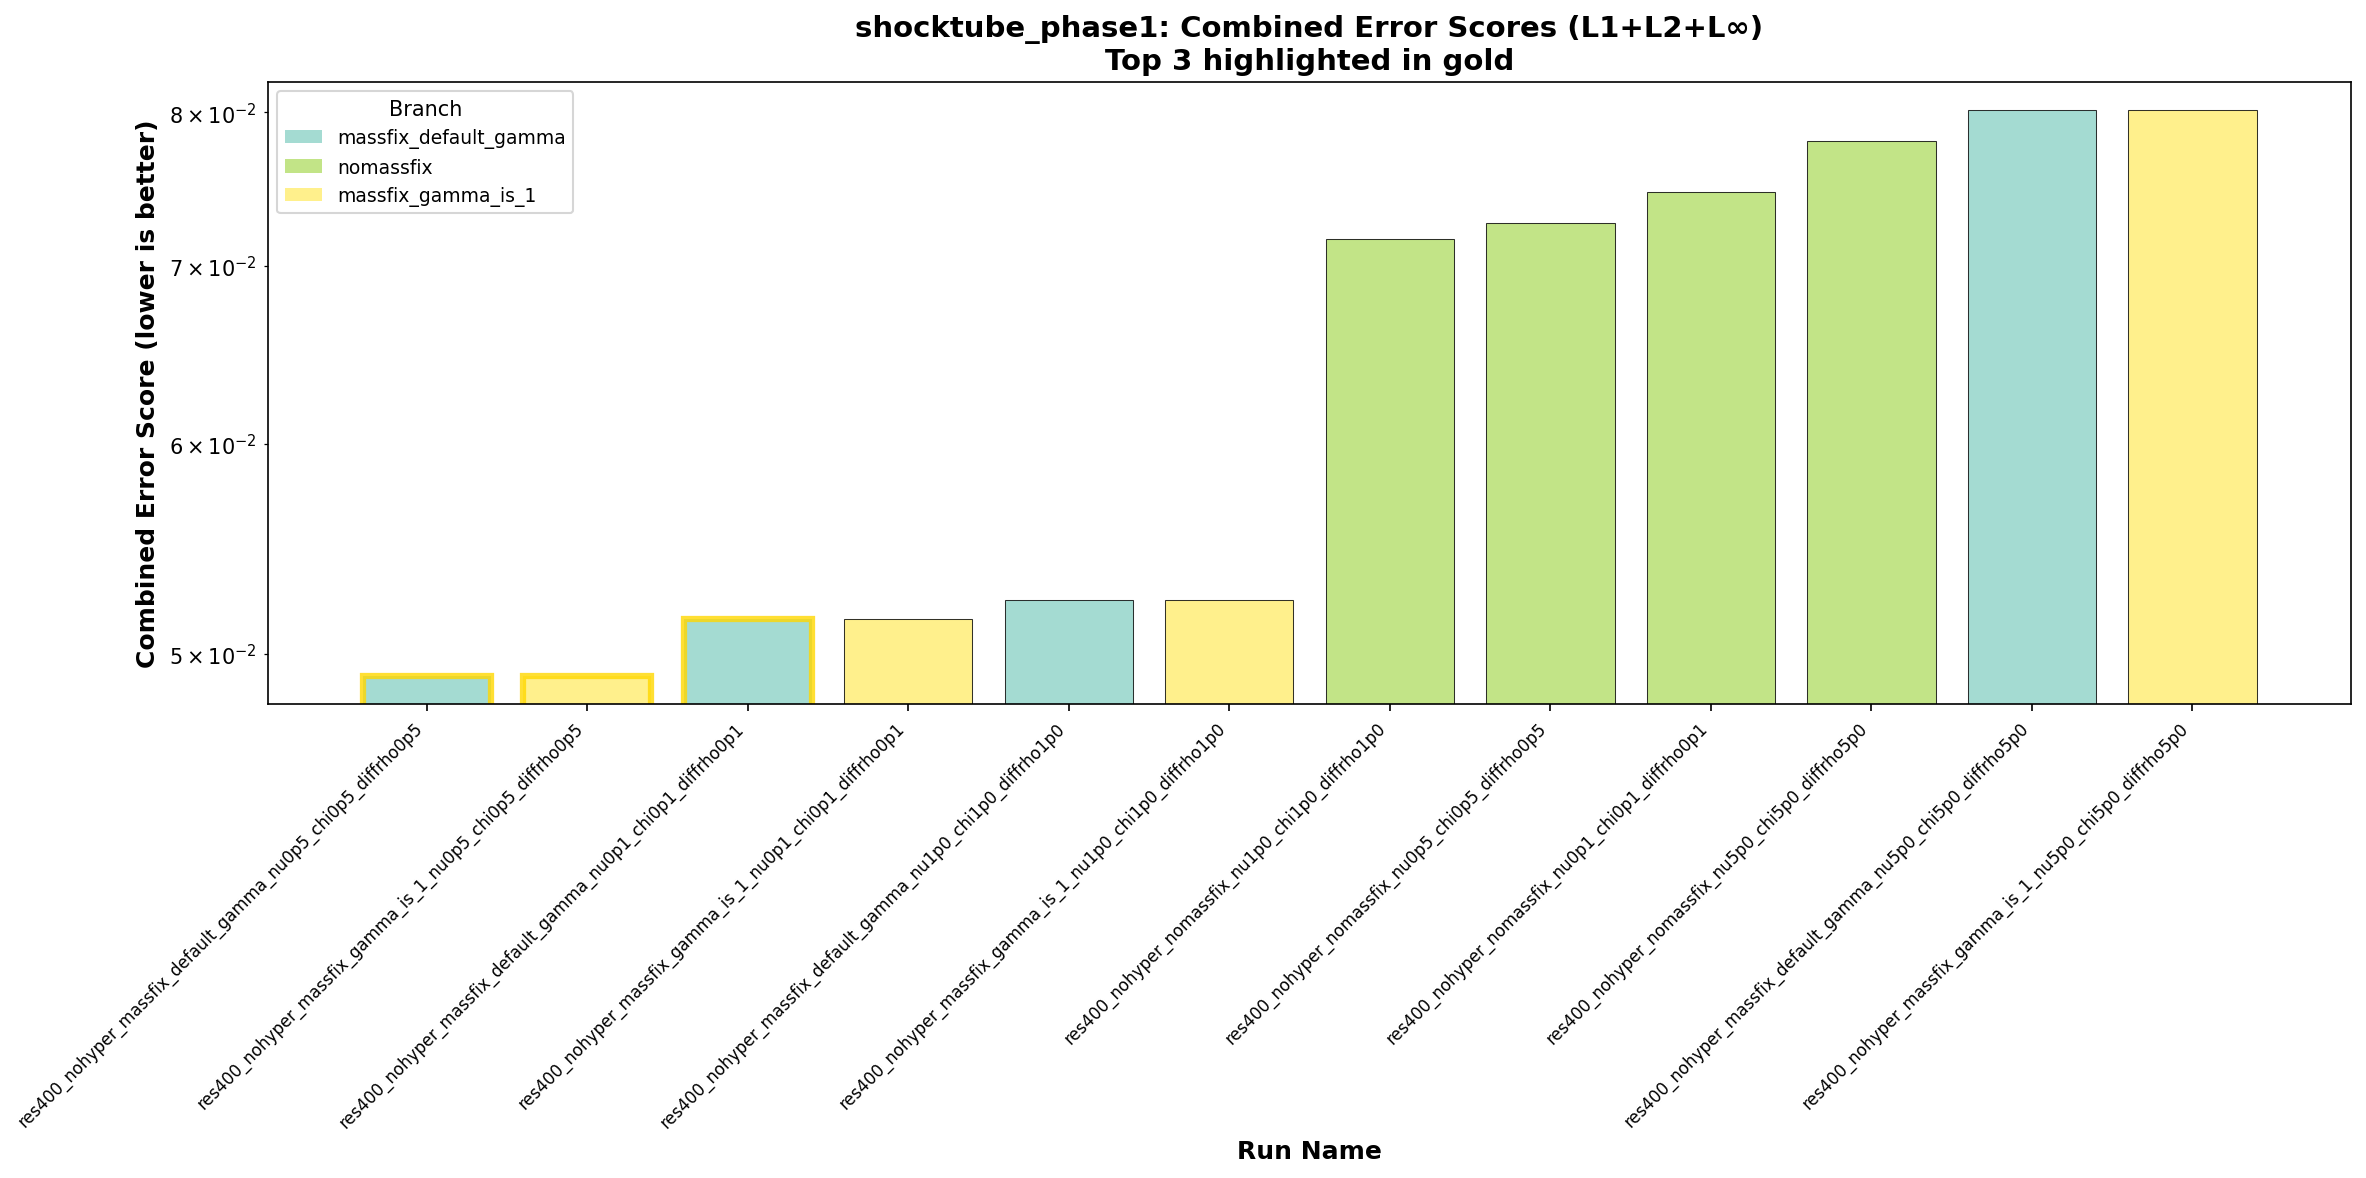
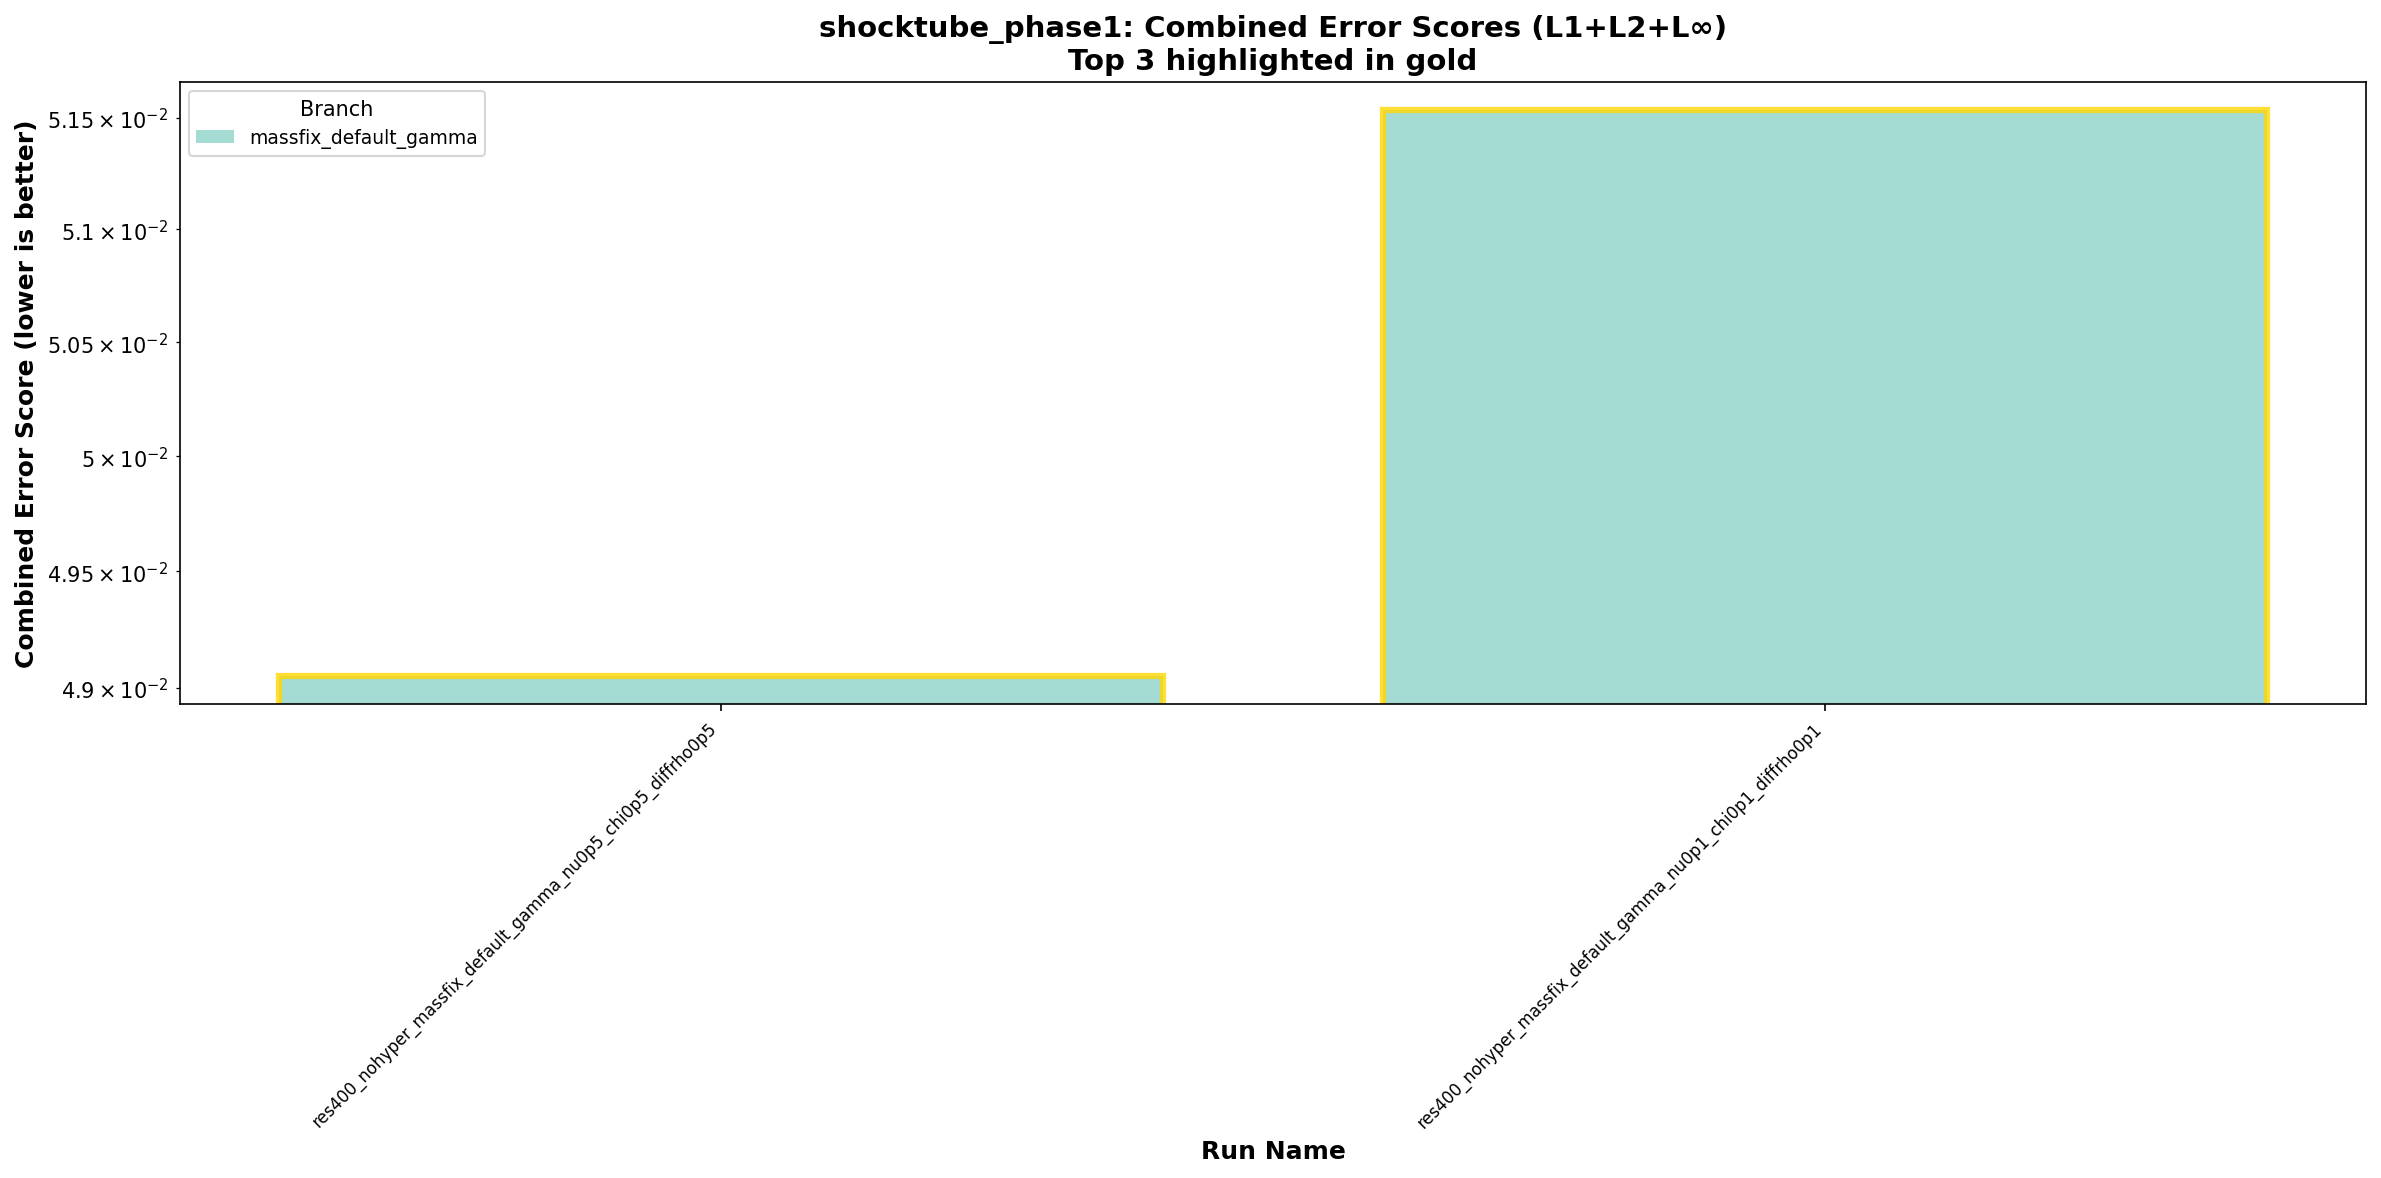
add analysis, now working again

diff --git a/analysis/shocktube_phase1/error/norms/shocktube_phase1_error_norms_summary.md b/analysis/shocktube_phase1/error/norms/shocktube_phase1_error_norms_summary.md
@@ -4,7 +4,7 @@
 
 **Metrics Used**: L1
 
-**Total Runs Analyzed**: 12
+**Total Runs Analyzed**: 2
 
 ## 🥇 Top 5 Overall Performers
 
@@ -14,29 +14,11 @@
 - **Per-Metric Scores**:
   - L1: 4.905032e-02
 
-### #2: res400_nohyper_massfix_gamma_is_1_nu0p5_chi0p5_diffrho0p5
-- **Branch**: massfix_gamma_is_1
-- **Combined Score**: 4.905032e-02
-- **Per-Metric Scores**:
-  - L1: 4.905032e-02
-
-### #3: res400_nohyper_massfix_default_gamma_nu0p1_chi0p1_diffrho0p1
+### #2: res400_nohyper_massfix_default_gamma_nu0p1_chi0p1_diffrho0p1
 - **Branch**: massfix_default_gamma
 - **Combined Score**: 5.153381e-02
 - **Per-Metric Scores**:
   - L1: 5.153381e-02
-
-### #4: res400_nohyper_massfix_gamma_is_1_nu0p1_chi0p1_diffrho0p1
-- **Branch**: massfix_gamma_is_1
-- **Combined Score**: 5.153381e-02
-- **Per-Metric Scores**:
-  - L1: 5.153381e-02
-
-### #5: res400_nohyper_massfix_default_gamma_nu1p0_chi1p0_diffrho1p0
-- **Branch**: massfix_default_gamma
-- **Combined Score**: 5.238854e-02
-- **Per-Metric Scores**:
-  - L1: 5.238854e-02
 
 ## 🏆 Best Performer per Branch
 
@@ -45,16 +27,4 @@
 - **Combined Score**: 4.905032e-02
 - **Per-Metric Scores**:
   - L1: 4.905032e-02
-
-### massfix_gamma_is_1
-- **Run**: res400_nohyper_massfix_gamma_is_1_nu0p5_chi0p5_diffrho0p5
-- **Combined Score**: 4.905032e-02
-- **Per-Metric Scores**:
-  - L1: 4.905032e-02
-
-### nomassfix
-- **Run**: res400_nohyper_nomassfix_nu1p0_chi1p0_diffrho1p0
-- **Combined Score**: 7.163690e-02
-- **Per-Metric Scores**:
-  - L1: 7.163690e-02
 
